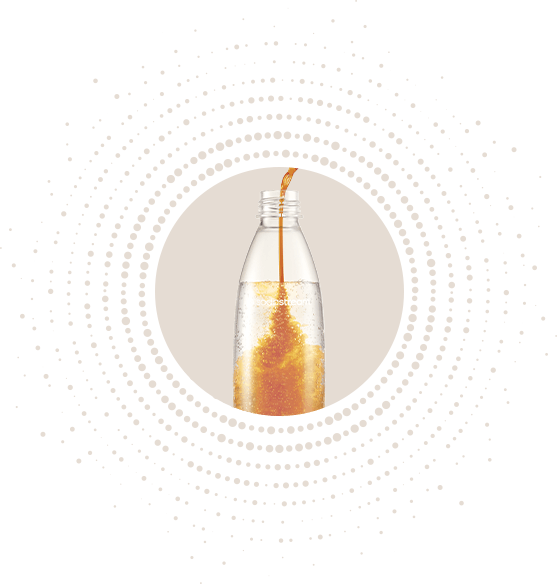
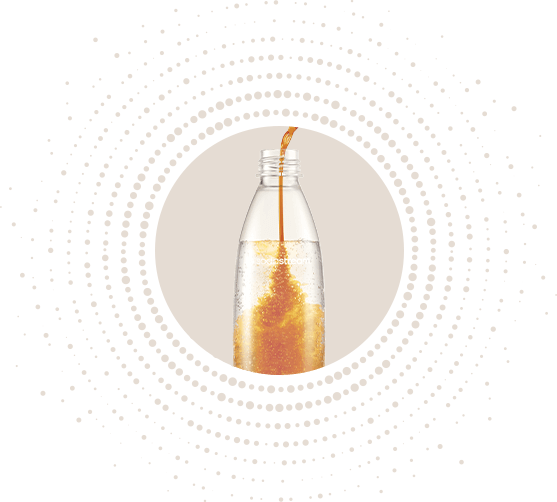
style: move kv title to top

diff --git a/style.css b/style.css
@@ -666,7 +666,7 @@
   }
 
   #es-sodastream.es-sodastream .es-dis__text {
-    margin-top: -150px;
+    margin-top: -220px;
   }
   #es-sodastream.es-sodastream .es-efficiency__title {
     font-size: 35px;
@@ -820,7 +820,6 @@
   }
   #es-sodastream.es-sodastream .es-kv__contentText {
     margin-left: 20px;
-    margin-top: 130px;
   }
   #es-sodastream.es-sodastream .es-kv__bg {
     display: none;
@@ -830,7 +829,7 @@
     font-family: 'Bold';
     font-size: 50px;
     line-height: 1.2;
-    margin-bottom: 150px;
+    margin-bottom: 270px;
   }
   #es-sodastream.es-sodastream .es-kv__subtitle {
     text-transform: uppercase;
